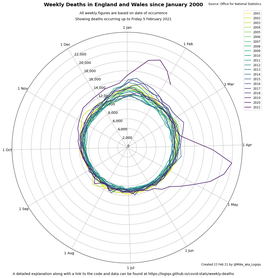
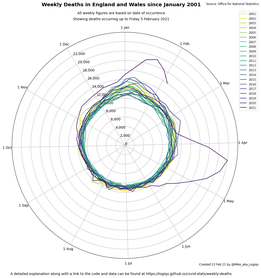
Fix title of polar plots (2001-2021)

diff --git a/docs/weekly-deaths/regions_polar.html b/docs/weekly-deaths/regions_polar.html
@@ -21,25 +21,25 @@
 <body>
 	<h1>Weekly Deaths in England and Wales</h1>
 
-	<h2>Radar / polar charts for 2000-2021</h2>
+	<h2>Radar / polar charts for 2001-2021</h2>
 
 	<p>England, Wales, England and Wales</p>
 
 	<div class="gallery" itemscope itemtype="http://schema.org/ImageGallery">
 		<figure itemprop="associatedMedia" itemscope itemtype="http://schema.org/ImageObject">
-			<a href="./england_polar.png" itemprop="contentUrl" data-size="1059x1113">
+			<a href="./england_polar.png" itemprop="contentUrl" data-size="1047x1113">
 				<img src="./england_polar_thumb.png" itemprop="thumbnail" alt="England">
 			</a>
 			<figcaption itemprop="caption description">England</figcaption>
 		</figure>
 		<figure itemprop="associatedMedia" itemscope itemtype="http://schema.org/ImageObject">
-			<a href="./wales_polar.png" itemprop="contentUrl" data-size="1059x1113">
+			<a href="./wales_polar.png" itemprop="contentUrl" data-size="1047x1113">
 				<img src="./wales_polar_thumb.png" itemprop="thumbnail" alt="Wales">
 			</a>
 			<figcaption itemprop="caption description">Wales</figcaption>
 		</figure>
 		<figure itemprop="associatedMedia" itemscope itemtype="http://schema.org/ImageObject">
-			<a href="./england_wales_polar.png" itemprop="contentUrl" data-size="1059x1113">
+			<a href="./england_wales_polar.png" itemprop="contentUrl" data-size="1047x1113">
 				<img src="./england_wales_polar_thumb.png" itemprop="thumbnail" alt="England and Wales">
 			</a>
 			<figcaption itemprop="caption description">England and Wales</figcaption>
@@ -49,19 +49,19 @@
 
 	<div class="gallery" itemscope itemtype="http://schema.org/ImageGallery">
 		<figure itemprop="associatedMedia" itemscope itemtype="http://schema.org/ImageObject">
-			<a href="./london_polar.png" itemprop="contentUrl" data-size="1059x1113">
+			<a href="./london_polar.png" itemprop="contentUrl" data-size="1047x1113">
 				<img src="./london_polar_thumb.png" itemprop="thumbnail" alt="London">
 			</a>
 			<figcaption itemprop="caption description">London</figcaption>
 		</figure>
 		<figure itemprop="associatedMedia" itemscope itemtype="http://schema.org/ImageObject">
-			<a href="./south_east_polar.png" itemprop="contentUrl" data-size="1059x1113">
+			<a href="./south_east_polar.png" itemprop="contentUrl" data-size="1047x1113">
 				<img src="./south_east_polar_thumb.png" itemprop="thumbnail" alt="South East">
 			</a>
 			<figcaption itemprop="caption description">South East</figcaption>
 		</figure>
 		<figure itemprop="associatedMedia" itemscope itemtype="http://schema.org/ImageObject">
-			<a href="./east_england_polar.png" itemprop="contentUrl" data-size="1059x1113">
+			<a href="./east_england_polar.png" itemprop="contentUrl" data-size="1047x1113">
 				<img src="./east_england_polar_thumb.png" itemprop="thumbnail" alt="East of England">
 			</a>
 			<figcaption itemprop="caption description">East of England</figcaption>
@@ -71,19 +71,19 @@
 
 	<div class="gallery" itemscope itemtype="http://schema.org/ImageGallery">
 		<figure itemprop="associatedMedia" itemscope itemtype="http://schema.org/ImageObject">
-			<a href="./north_west_polar.png" itemprop="contentUrl" data-size="1059x1113">
+			<a href="./north_west_polar.png" itemprop="contentUrl" data-size="1047x1113">
 				<img src="./north_west_polar_thumb.png" itemprop="thumbnail" alt="North West">
 			</a>
 			<figcaption itemprop="caption description">North West</figcaption>
 		</figure>
 		<figure itemprop="associatedMedia" itemscope itemtype="http://schema.org/ImageObject">
-			<a href="./north_east_polar.png" itemprop="contentUrl" data-size="1059x1113">
+			<a href="./north_east_polar.png" itemprop="contentUrl" data-size="1047x1113">
 				<img src="./north_east_polar_thumb.png" itemprop="thumbnail" alt="North East">
 			</a>
 			<figcaption itemprop="caption description">North East</figcaption>
 		</figure>
 		<figure itemprop="associatedMedia" itemscope itemtype="http://schema.org/ImageObject">
-			<a href="./yorkshire_humber_polar.png" itemprop="contentUrl" data-size="1059x1113">
+			<a href="./yorkshire_humber_polar.png" itemprop="contentUrl" data-size="1047x1113">
 				<img src="./yorkshire_humber_polar_thumb.png" itemprop="thumbnail" alt="Yorkshire and The Humber">
 			</a>
 			<figcaption itemprop="caption description">Yorkshire and The Humber</figcaption>
@@ -93,19 +93,19 @@
 
 	<div class="gallery" itemscope itemtype="http://schema.org/ImageGallery">
 		<figure itemprop="associatedMedia" itemscope itemtype="http://schema.org/ImageObject">
-			<a href="./east_midlands_polar.png" itemprop="contentUrl" data-size="1059x1113">
+			<a href="./east_midlands_polar.png" itemprop="contentUrl" data-size="1047x1113">
 				<img src="./east_midlands_polar_thumb.png" itemprop="thumbnail" alt="East Midlands">
 			</a>
 			<figcaption itemprop="caption description">East Midlands</figcaption>
 		</figure>
 		<figure itemprop="associatedMedia" itemscope itemtype="http://schema.org/ImageObject">
-			<a href="./west_midlands_polar.png" itemprop="contentUrl" data-size="1059x1113">
+			<a href="./west_midlands_polar.png" itemprop="contentUrl" data-size="1047x1113">
 				<img src="./west_midlands_polar_thumb.png" itemprop="thumbnail" alt="West Midlands">
 			</a>
 			<figcaption itemprop="caption description">West Midlands</figcaption>
 		</figure>
 		<figure itemprop="associatedMedia" itemscope itemtype="http://schema.org/ImageObject">
-			<a href="./south_west_polar.png" itemprop="contentUrl" data-size="1059x1113">
+			<a href="./south_west_polar.png" itemprop="contentUrl" data-size="1047x1113">
 				<img src="./south_west_polar_thumb.png" itemprop="thumbnail" alt="South West">
 			</a>
 			<figcaption itemprop="caption description">South West</figcaption>
